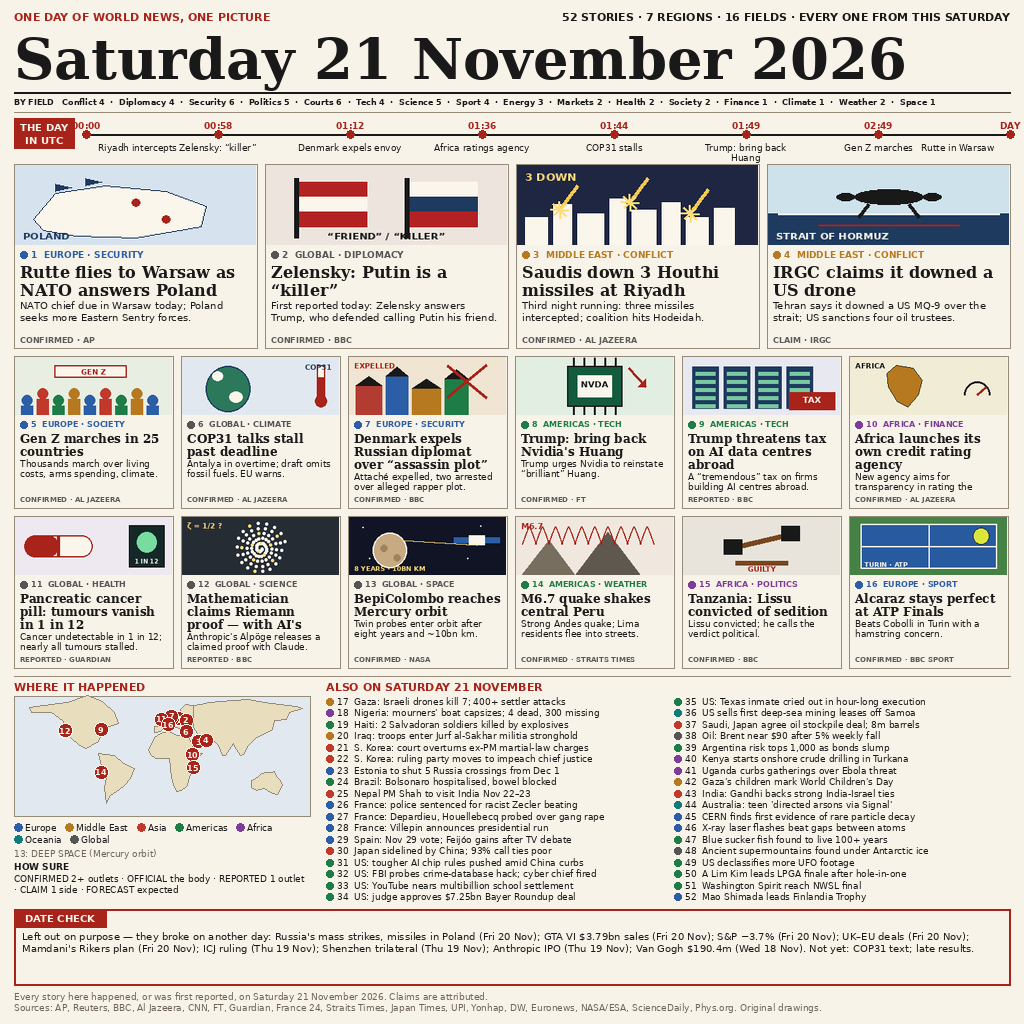
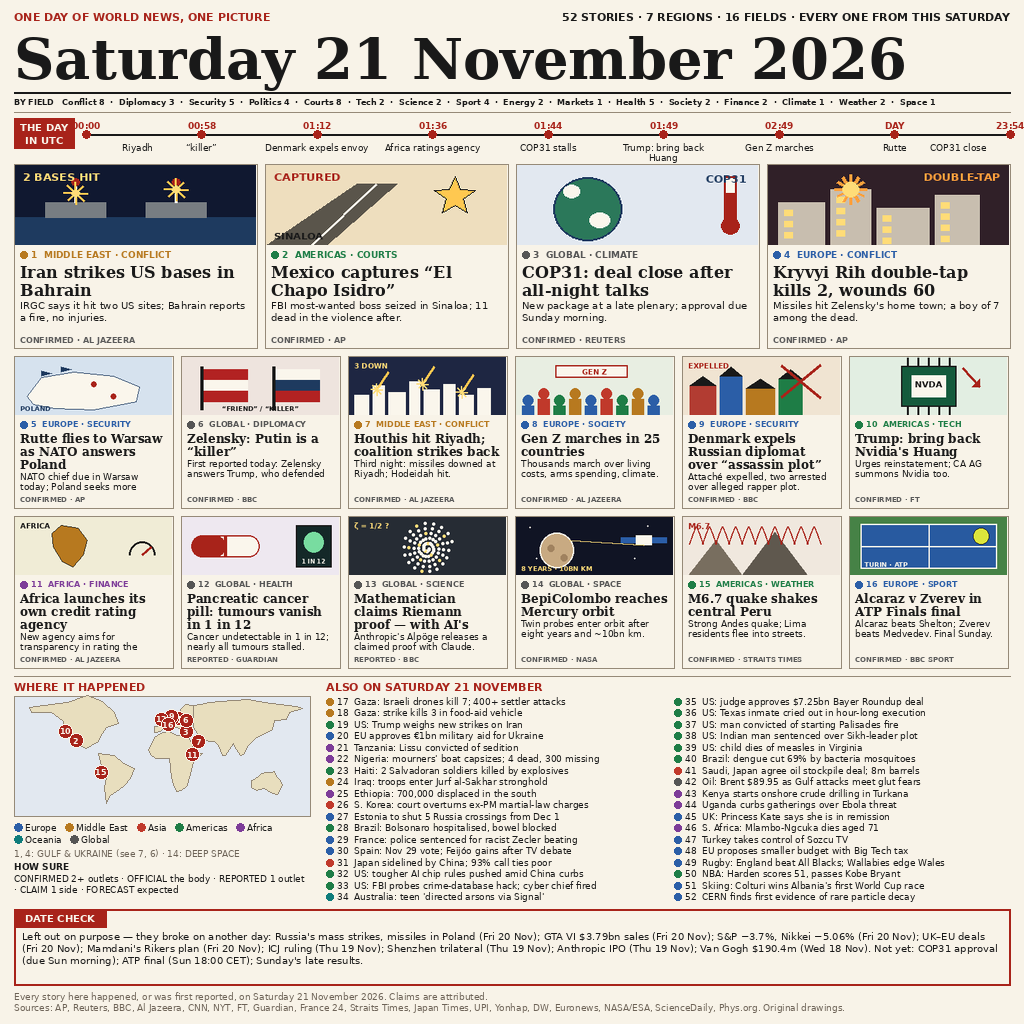
news-image-20261121 v2: full-day refresh (52 stories)
Heroes now Iran strikes on US bases in Bahrain, Mexico captures
'El Chapo Isidro', COP31 deal close at late plenary, Kryvyi Rih
double-tap; ATP tile carries semi-final results; 16 briefs swapped
for Saturday-evening news; UTC timeline gains 23:54 anchor.

diff --git a/main.py b/main.py
@@ -1,28 +1,29 @@
 # news-image-20261121 entry (Python 3.13, standard library only).
 #
 # The image is entry.png beside this file: a front-page summary of the
-# world news of Saturday 21 November 2026 — built that morning from
-# reporting dated 21 November 2026 in some time zone. A masthead dates
-# the page ("Saturday 21 November 2026", "52 STORIES · 7 REGIONS ·
-# 16 FIELDS"), a UTC timeline runs across the top, and four hero tiles
-# cover the day's biggest stories: "Rutte flies to Warsaw as NATO
-# answers Poland", "Zelensky: Putin is a 'killer'", "Saudis down
-# 3 Houthi missiles at Riyadh" and "IRGC claims it downed a US drone"
-# over the Strait of Hormuz. Twelve more illustrated tiles follow:
-# Gen Z marches in 25 countries, COP31 talks stalling past deadline,
-# Denmark expelling a Russian diplomat over an "assassin plot", Trump
-# urging Nvidia to bring back Huang, Trump threatening a tax on AI
-# data centres abroad, Africa launching its own credit rating agency,
-# a pancreatic cancer pill trial, a claimed Riemann proof, BepiColombo
-# reaching Mercury orbit, an M6.7 quake in central Peru, Tanzania's
-# Lissu convicted of sedition, and Alcaraz perfect at the ATP Finals.
-# A world map with numbered pins 1-16 indexes those stories, stories
-# 17-52 run as a numbered briefs column, and a DATE CHECK box names
-# the big stories deliberately left out because they broke on another
-# day. Each tile carries a confidence mark (CONFIRMED, REPORTED,
-# CLAIM, OFFICIAL or FORECAST) with a HOW SURE legend under the map.
-# Every label was typeset programmatically, so the spelling in
-# the image is exact.
+# world news of Saturday 21 November 2026 — v2 is a full-day refresh,
+# built after the UTC day ended from reporting dated 21 November 2026
+# in some time zone. A masthead dates the page ("Saturday 21 November
+# 2026", "52 STORIES · 7 REGIONS · 16 FIELDS"), a UTC timeline runs
+# across the top (00:00 to a 23:54 COP31 close), and four hero tiles
+# cover the day's biggest stories: "Iran strikes US bases in Bahrain",
+# "Mexico captures 'El Chapo Isidro'", "COP31: deal close after
+# all-night talks" and "Kryvyi Rih double-tap kills 2, wounds 60".
+# Twelve more illustrated tiles follow: Rutte flying to Warsaw as NATO
+# answers Poland, Zelensky calling Putin a "killer", Houthis hitting
+# Riyadh, Gen Z marching in 25 countries, Denmark expelling a Russian
+# diplomat over an "assassin plot", Trump urging Nvidia to bring back
+# Huang, Africa launching its own credit rating agency, a pancreatic
+# cancer pill trial, a claimed Riemann proof, BepiColombo reaching
+# Mercury orbit, an M6.7 quake in central Peru, and Alcaraz meeting
+# Zverev in the ATP Finals final. A world map with numbered pins
+# indexes those stories (1 and 4 named in the map note, too close to
+# their neighbours to pin), stories 17-52 run as a numbered briefs
+# column, and a DATE CHECK box names the big stories deliberately left
+# out because they broke on another day. Each tile carries a confidence
+# mark (CONFIRMED, REPORTED, CLAIM, OFFICIAL or FORECAST) with a HOW
+# SURE legend under the map. Every label was typeset programmatically,
+# so the spelling in the image is exact.
 #
 # This program writes entry.png to the output directory in one
 # byte-exact write: it reads no input, uses no clock and no randomness,

diff --git a/NOTES.md b/NOTES.md
@@ -23,3 +23,26 @@ front page summing up the world news of Saturday 21 November 2026.
   committed entry.png (`cmp` clean).
 - The committed entry.png hashes to the sha256 recorded above, so
   what the grader runs is exactly the image that was reviewed.
+
+## v2 refresh (full day) — 22 Nov 2026 ~00:35 UTC
+
+Same 52-story front-page architecture, rebuilt after the UTC day
+ended: the four hero tiles are now Iran's strikes on US bases in
+Bahrain, Mexico's capture of "El Chapo Isidro", the COP31 deal close
+at the late plenary (Reuters 23:54 UTC), and the Kryvyi Rih
+double-tap; the ATP tile carries the semi-final results (Alcaraz and
+Zverev into Sunday's final); 16 of the 36 briefs are new
+Saturday-evening items. The UTC timeline gains a 23:54 anchor; the
+DATE CHECK box keeps Friday's stories out and notes the COP31
+approval and ATP final as still to come on Sunday. Full story list:
+`~/workspace/goals/make-fun-ai-agent-bounty-entry/hidden_files/news-image-20261121-v2-stories.md`.
+Draw script: `draw21_v2.py` in
+`~/workspace/makefun/news-image-20261121-work/` (image reviewed
+visually before commit; timeline labels shortened after the first
+render showed two overlaps).
+
+- New entry.png: 1024x1024 PNG, 280,904 bytes,
+  sha256 ac920c90fd5c39f98915f16dbd4f2a1ebd06536929922b8fb941624b3d386084.
+- Ran `MAKEFUN_OUTPUT_DIR=/tmp/ni21v2-out python3 main.py` locally:
+  the output file compared byte-identical to the committed entry.png
+  (`cmp` clean).
